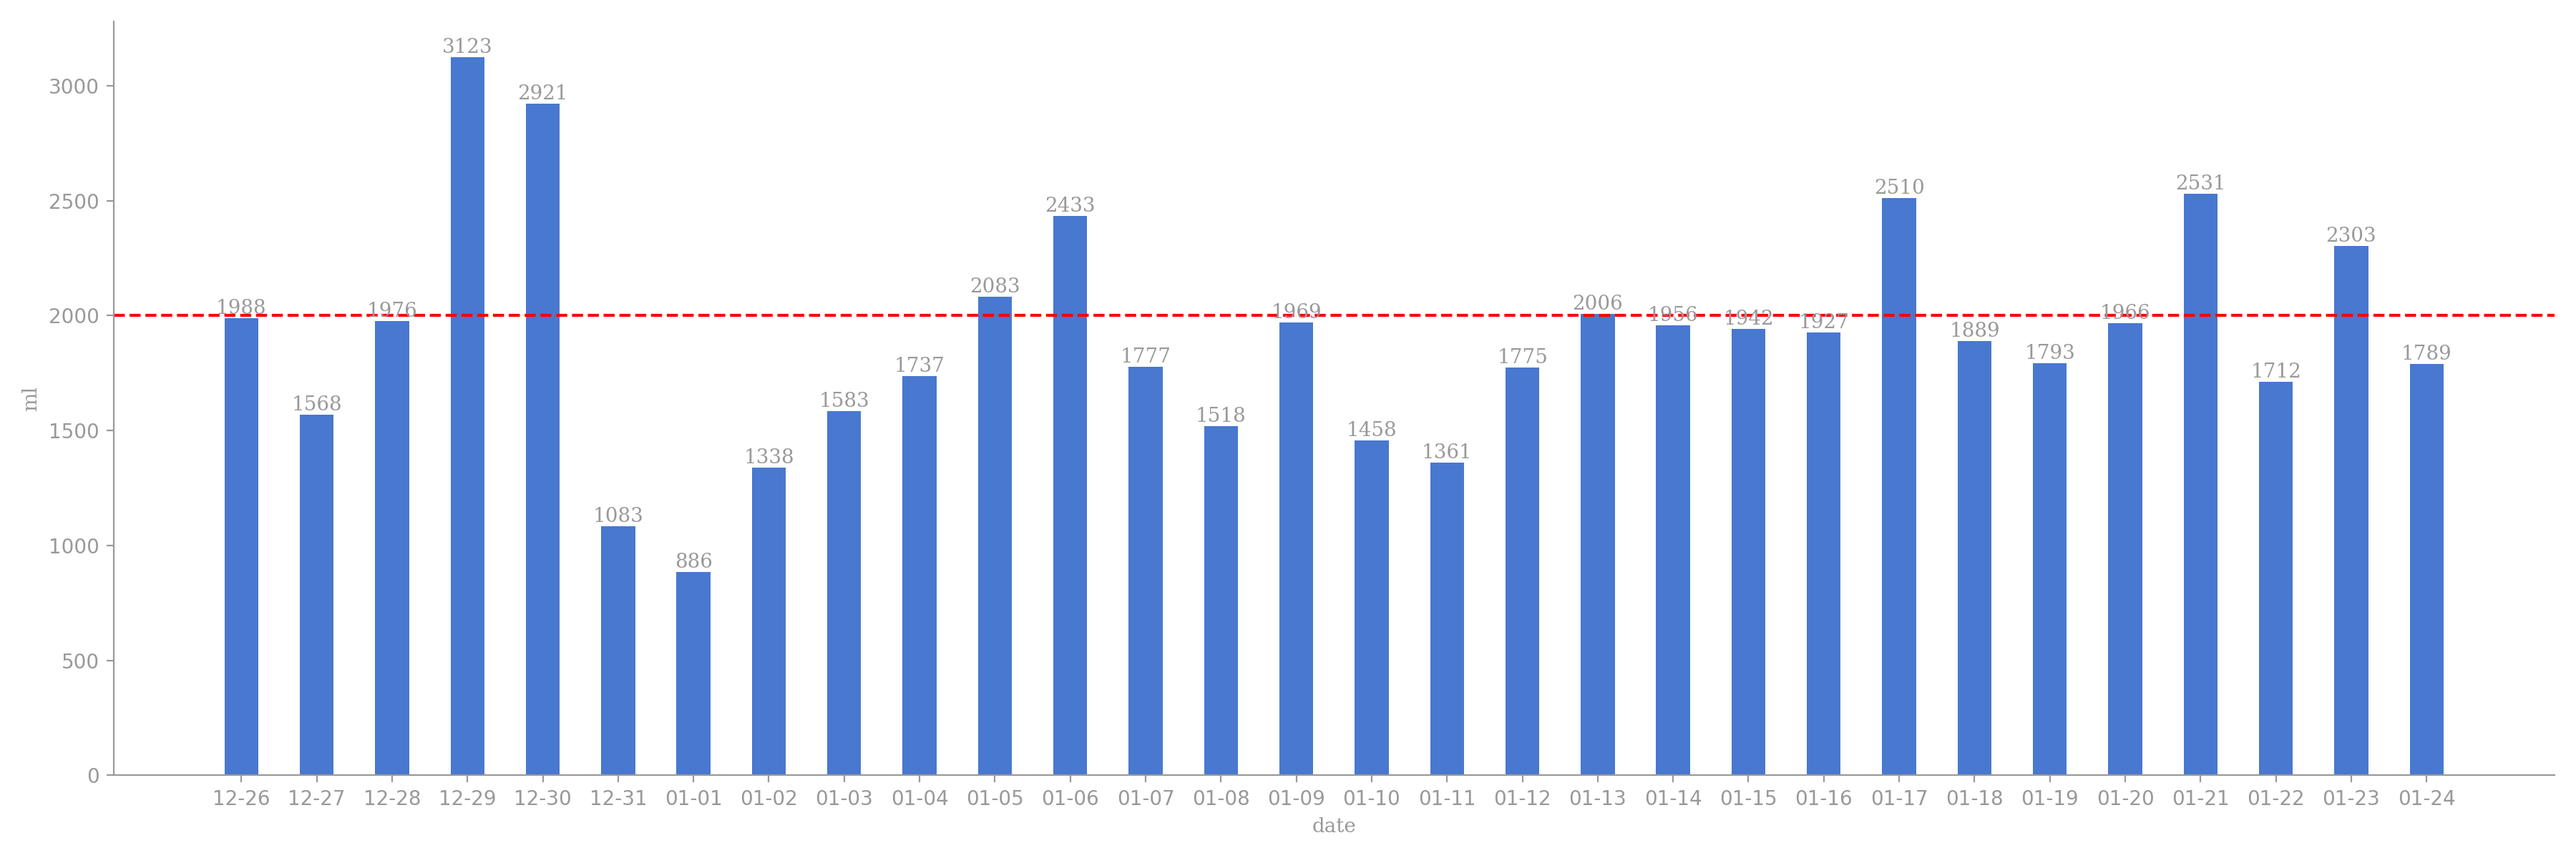
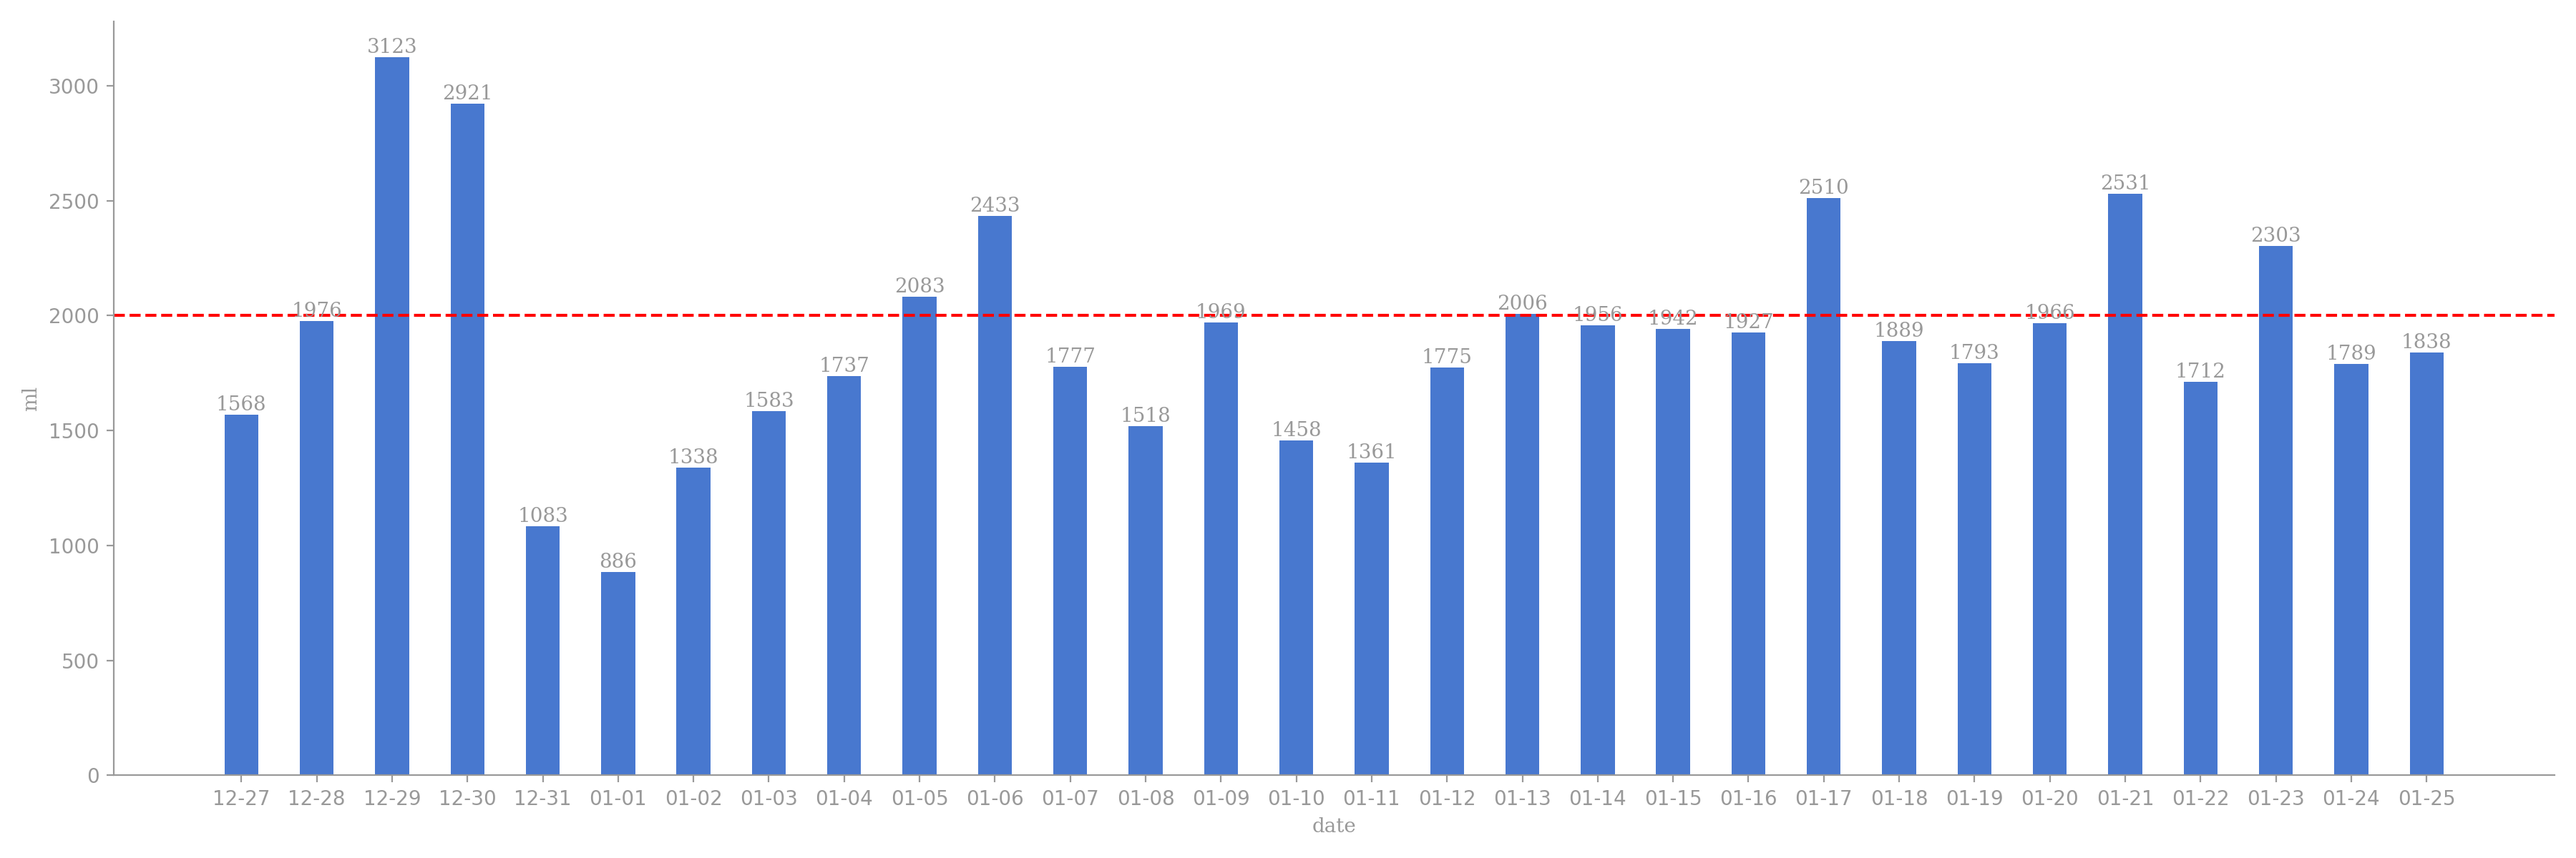
crontab auto git

Changed region(s): [[0.3422, 0.2158, 0.9644, 0.555], [0.0622, 0.0308, 0.3422, 0.6783], [0.2178, 0.925, 0.2489, 0.9558]]

diff --git a/README.md b/README.md
@@ -1,17 +1,3 @@
-# 今日饮水数据
-
-<div align=center>
-<img src="today.png" style="zoom: 100%;" />
-
-| 今日总饮水量 | 每小时平均饮水量 |
-| :----: | :----: |
-| 1838 | 141 |
-</div>
-
-| 日期 | 01:33:55 | 02:25:04 | 02:32:49 | 03:49:52 | 05:02:24 | 05:26:14 | 05:57:34 | 07:27:38 | 09:33:10 | 16:02:49 | 16:59:20 | 17:40:55 | 18:21:49 | 18:59:37 | 19:53:07 | 21:35:53 | 21:51:09 | 22:48:30 | 23:17:25 |
-| :----: | :----: | :----: | :----: | :----: | :----: | :----: | :----: | :----: | :----: | :----: | :----: | :----: | :----: | :----: | :----: | :----: | :----: | :----: | :----: |
-| 2026-01-25 | 126 | 86 | 33 | 86 | 114 | 74 | 200 | 94 | 56 | 103 | 83 | 76 | 63 | 32 | 67 | 300 | 114 | 88 | 43 |
-
 # 近30日饮水数据
 
 <div align=center>
@@ -19,8 +5,12 @@
 
 | 总饮水量 | 日均饮水量 |
 | :----: | :----: |
-| 56901 | 1896 |
+| 56751 | 1891 |
 </div>
+
+| 日期 | all | 01:33:55 | 02:25:04 | 02:32:49 | 03:49:52 | 05:02:24 | 05:26:14 | 05:57:34 | 07:27:38 | 09:33:10 | 16:02:49 | 16:59:20 | 17:40:55 | 18:21:49 | 18:59:37 | 19:53:07 | 21:35:53 | 21:51:09 | 22:48:30 | 23:17:25 |
+| :----: | :----: | :----: | :----: | :----: | :----: | :----: | :----: | :----: | :----: | :----: | :----: | :----: | :----: | :----: | :----: | :----: | :----: | :----: | :----: | :----: |
+| 2026-01-25 | 1838 | 126 | 86 | 33 | 86 | 114 | 74 | 200 | 94 | 56 | 103 | 83 | 76 | 63 | 32 | 67 | 300 | 114 | 88 | 43 |
 
 | 日期 | all | 00:32:14 | 01:15:06 | 01:16:03 | 01:34:06 | 02:29:22 | 03:02:58 | 04:36:19 | 05:28:55 | 06:30:51 | 06:59:51 | 08:28:31 | 17:55:02 | 19:32:24 | 20:28:48 | 20:52:05 | 22:11:44 | 22:46:06 |
 | :----: | :----: | :----: | :----: | :----: | :----: | :----: | :----: | :----: | :----: | :----: | :----: | :----: | :----: | :----: | :----: | :----: | :----: | :----: |
@@ -141,8 +131,4 @@
 | 日期 | all | 00:38:04 | 01:30:15 | 03:42:33 | 05:14:26 | 06:03:13 | 09:10:28 | 09:58:21 | 16:52:33 | 18:01:17 | 18:18:53 | 19:02:29 | 20:05:22 | 20:41:57 | 21:07:01 | 22:33:51 |
 | :----: | :----: | :----: | :----: | :----: | :----: | :----: | :----: | :----: | :----: | :----: | :----: | :----: | :----: | :----: | :----: | :----: |
 | 2025-12-26 | 1988 | 86 | 400 | 154 | 86 | 200 | 114 | 62 | 88 | 128 | 64 | 44 | 172 | 188 | 114 | 88 |
-
-| 日期 | all | 00:42:34 | 01:31:28 | 03:20:40 | 03:37:37 | 05:46:34 | 07:26:36 | 08:08:55 | 08:18:20 | 08:34:48 | 09:42:29 | 15:56:32 | 16:44:20 | 17:10:54 | 20:29:53 | 21:40:52 | 22:42:55 | 22:45:13 |
-| :----: | :----: | :----: | :----: | :----: | :----: | :----: | :----: | :----: | :----: | :----: | :----: | :----: | :----: | :----: | :----: | :----: | :----: | :----: |
-| 2025-12-25 | 2161 | 126 | 88 | 123 | 200 | 200 | 400 | 94 | 86 | 67 | 101 | 84 | 68 | 32 | 200 | 102 | 138 | 52 |
 
